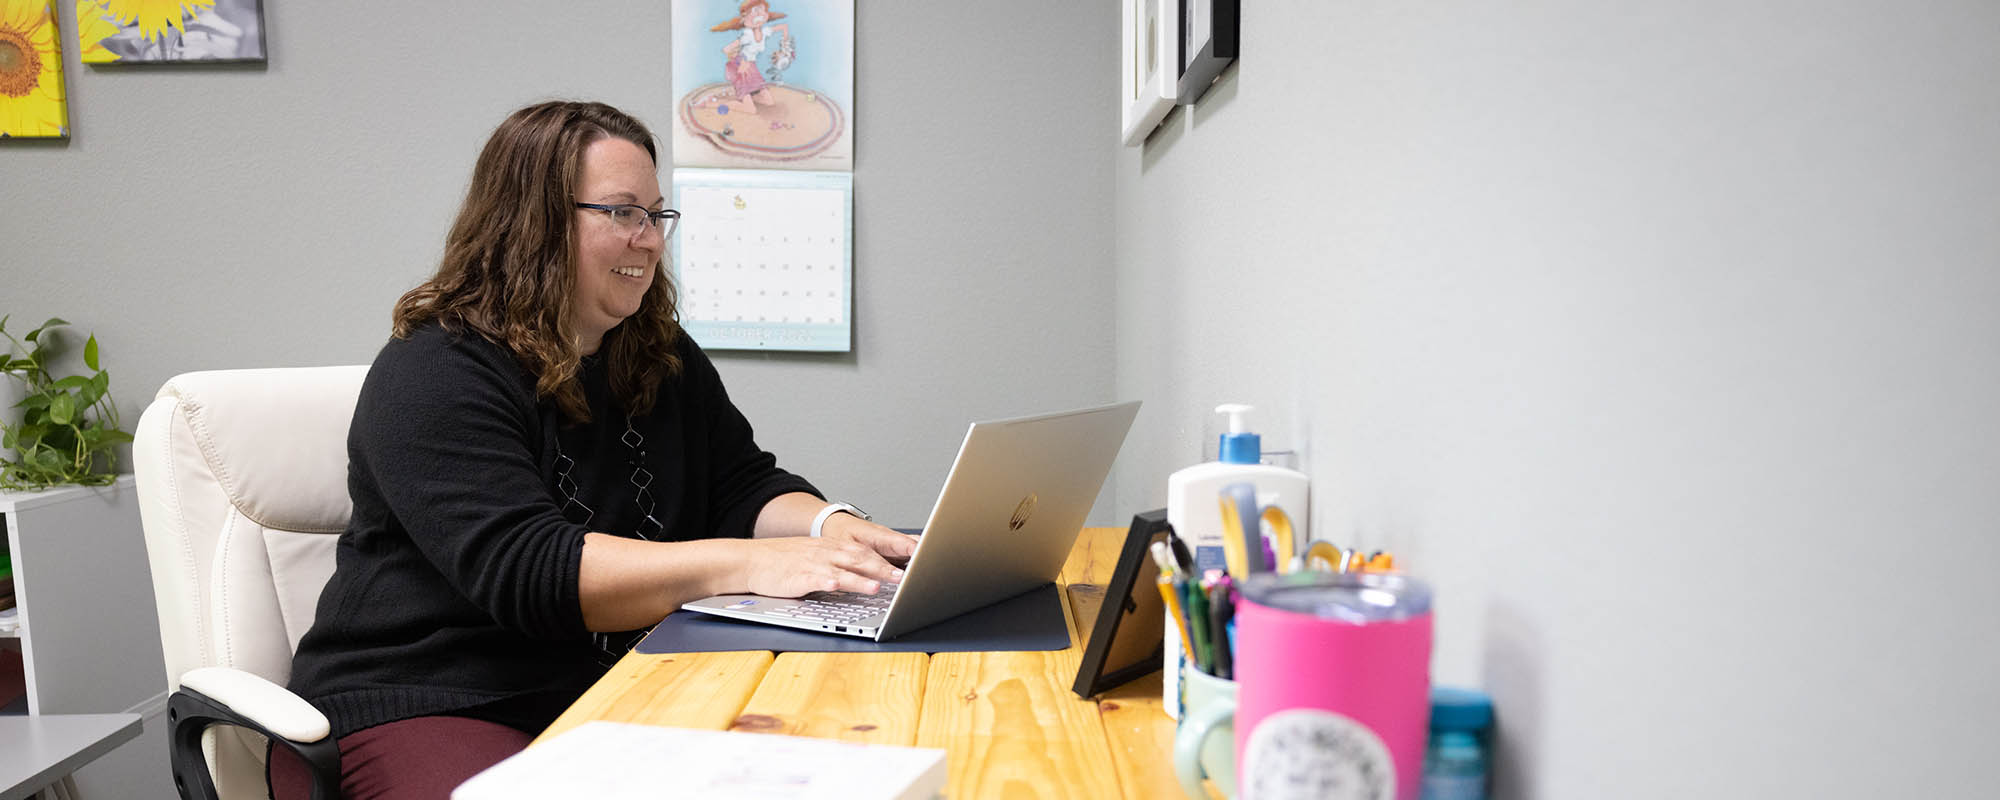
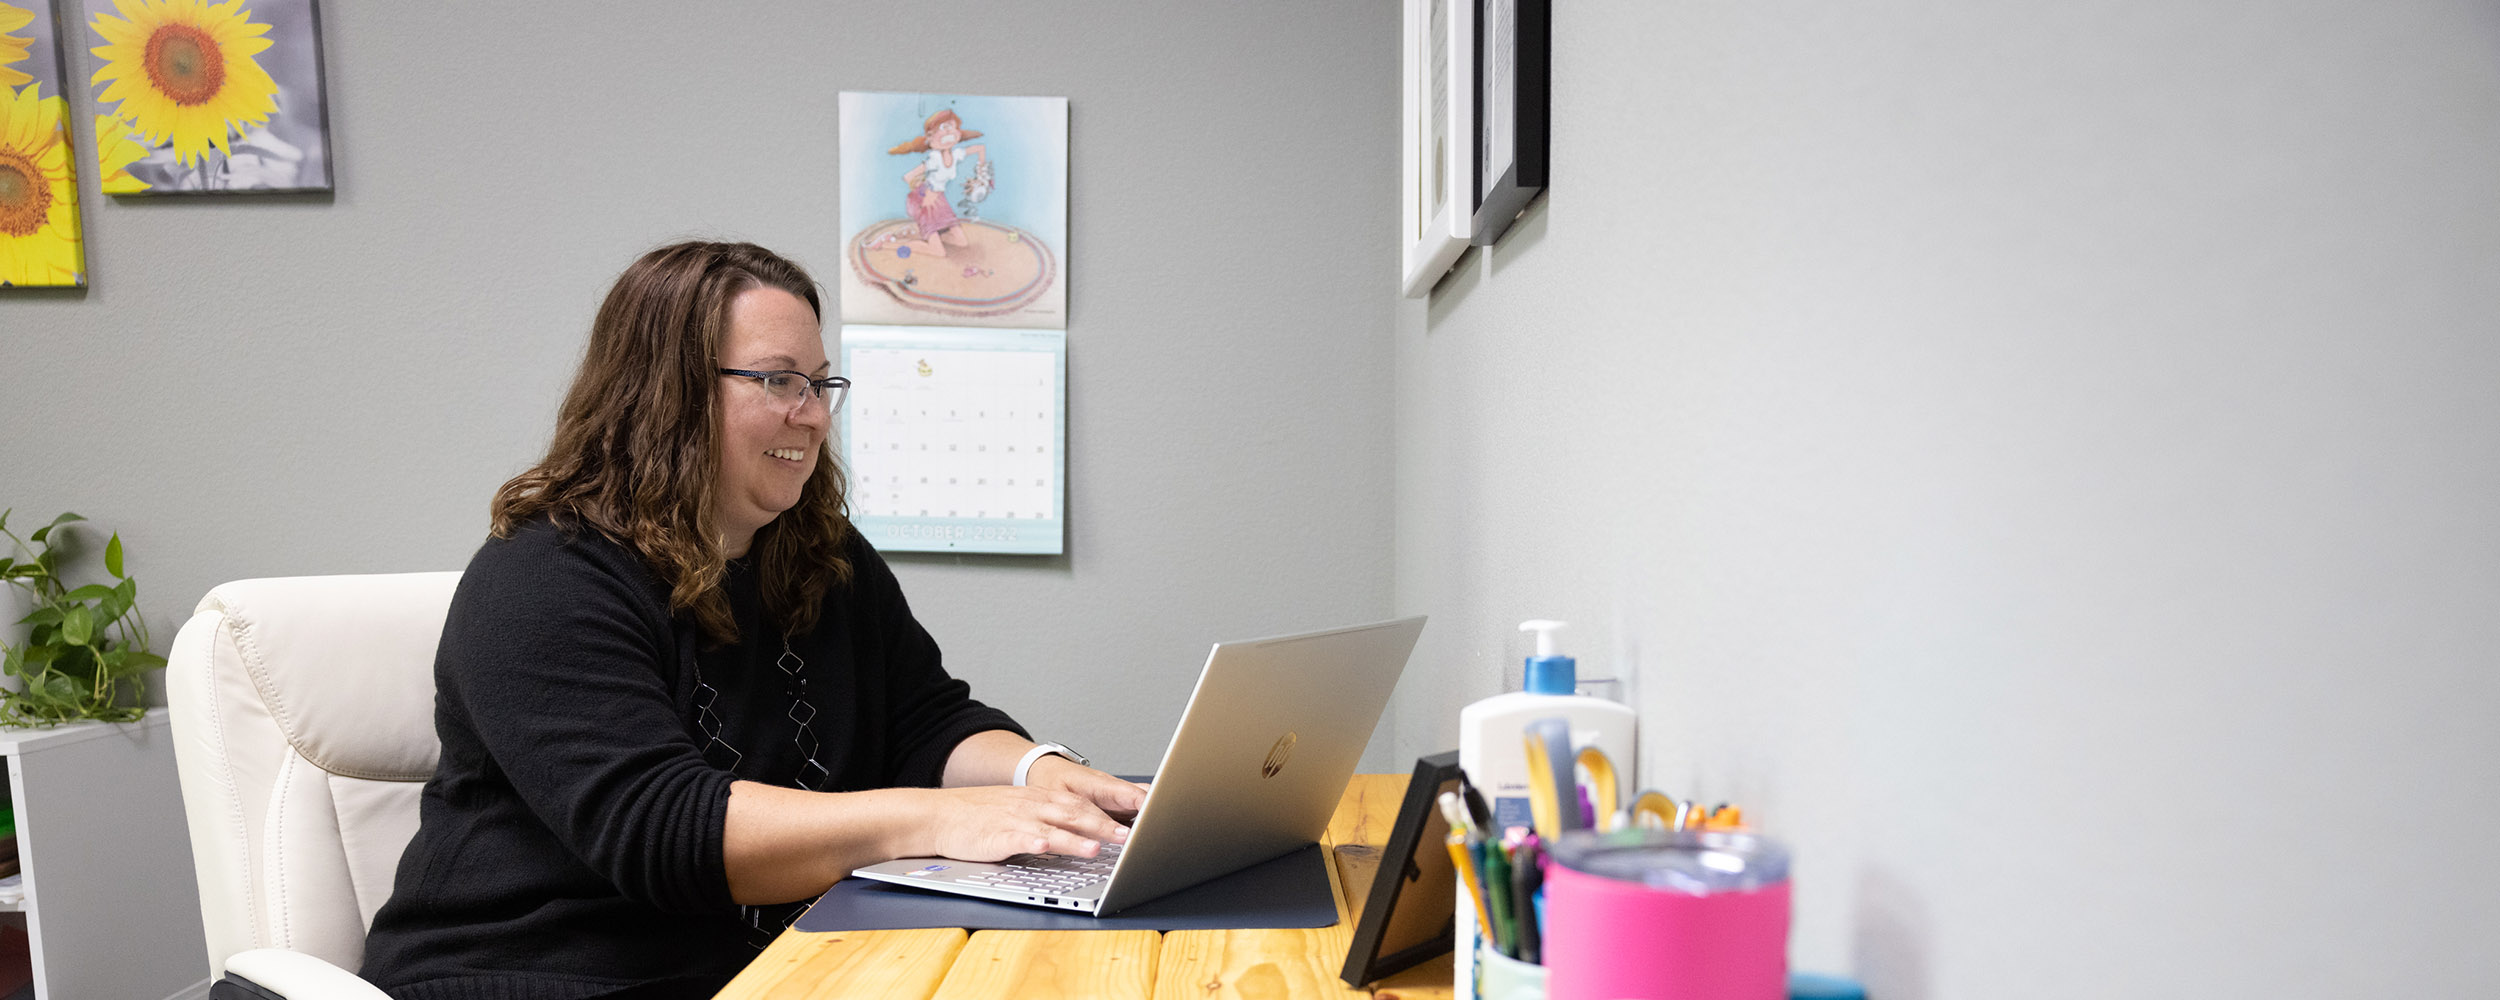
added new image options to test

diff --git a/layouts/partials/hero-image.html b/layouts/partials/hero-image.html
@@ -1,10 +1,10 @@
 <div class="hero__image">
   <picture>
-    <source sizes="100vw" srcset="https://ik.imagekit.io/insightcreative/mind-team/{{ .Params.hero.image_url }}?tr=f-avif,q-75,w-360,h-600 600w, https://ik.imagekit.io/insightcreative/mind-team/{{ .Params.hero.image_url }}?tr=f-avif,q-75,w-800,h-400 800w, https://ik.imagekit.io/insightcreative/mind-team/{{ .Params.hero.image_url }}?tr=f-avif,q-75,w-1000,h-500 1000w, https://ik.imagekit.io/insightcreative/mind-team/{{ .Params.hero.image_url }}?tr=f-avif,q-75,w-1200,h-600 1200w, https://ik.imagekit.io/insightcreative/mind-team/{{ .Params.hero.image_url }}?tr=f-avif,q-75,w-1400,h-700 1400w, https://ik.imagekit.io/insightcreative/mind-team/{{ .Params.hero.image_url }}?tr=f-avif,q-75,w-1800,h-900 1800w, https://ik.imagekit.io/insightcreative/mind-team/{{ .Params.hero.image_url }}?tr=f-avif,q-75,w-2000,h-1000 2000w" type="image/avif">
+    <source sizes="100vw" srcset="https://ik.imagekit.io/insightcreative/mind-team/{{ .Params.hero.image_url }}?tr=f-avif,q-90,w-360,h-600 600w, https://ik.imagekit.io/insightcreative/mind-team/{{ .Params.hero.image_url }}?tr=f-avif,q-90,w-800,h-400 800w, https://ik.imagekit.io/insightcreative/mind-team/{{ .Params.hero.image_url }}?tr=f-avif,q-90,w-1000,h-500 1000w, https://ik.imagekit.io/insightcreative/mind-team/{{ .Params.hero.image_url }}?tr=f-avif,q-90,w-1200,h-600 1200w, https://ik.imagekit.io/insightcreative/mind-team/{{ .Params.hero.image_url }}?tr=f-avif,q-90,w-1400,h-700 1400w, https://ik.imagekit.io/insightcreative/mind-team/{{ .Params.hero.image_url }}?tr=f-avif,q-90,w-1800,h-900 1800w, https://ik.imagekit.io/insightcreative/mind-team/{{ .Params.hero.image_url }}?tr=f-avif,q-90,w-2000,h-1000 2000w" type="image/avif">
     
-    <source sizes="100vw" srcset="https://ik.imagekit.io/insightcreative/mind-team/{{ .Params.hero.image_url }}?tr=f-webp,q-75,w-360,h-600 600w, https://ik.imagekit.io/insightcreative/mind-team/{{ .Params.hero.image_url }}?tr=f-webp,q-75,w-800,h-400 800w, https://ik.imagekit.io/insightcreative/mind-team/{{ .Params.hero.image_url }}?tr=f-webp,q-75,w-1000,h-500 1000w, https://ik.imagekit.io/insightcreative/mind-team/{{ .Params.hero.image_url }}?tr=f-webp,q-75,w-1200,h-600 1200w, https://ik.imagekit.io/insightcreative/mind-team/{{ .Params.hero.image_url }}?tr=f-webp,q-75,w-1400,h-700 1400w, https://ik.imagekit.io/insightcreative/mind-team/{{ .Params.hero.image_url }}?tr=f-webp,q-75,w-1800,h-900 1800w, https://ik.imagekit.io/insightcreative/mind-team/{{ .Params.hero.image_url }}?tr=f-webp,q-75,w-2000,h-1000 2000w" type="image/webp">
+    <source sizes="100vw" srcset="https://ik.imagekit.io/insightcreative/mind-team/{{ .Params.hero.image_url }}?tr=f-webp,q-90,w-360,h-600 600w, https://ik.imagekit.io/insightcreative/mind-team/{{ .Params.hero.image_url }}?tr=f-webp,q-90,w-800,h-400 800w, https://ik.imagekit.io/insightcreative/mind-team/{{ .Params.hero.image_url }}?tr=f-webp,q-90,w-1000,h-500 1000w, https://ik.imagekit.io/insightcreative/mind-team/{{ .Params.hero.image_url }}?tr=f-webp,q-90,w-1200,h-600 1200w, https://ik.imagekit.io/insightcreative/mind-team/{{ .Params.hero.image_url }}?tr=f-webp,q-90,w-1400,h-700 1400w, https://ik.imagekit.io/insightcreative/mind-team/{{ .Params.hero.image_url }}?tr=f-webp,q-90,w-1800,h-900 1800w, https://ik.imagekit.io/insightcreative/mind-team/{{ .Params.hero.image_url }}?tr=f-webp,q-90,w-2000,h-1000 2000w" type="image/webp">
 
-    <source sizes="100vw" srcset="https://ik.imagekit.io/insightcreative/mind-team/{{ .Params.hero.image_url }}?tr=f-jpg,q-75,w-360,h-600 600w, https://ik.imagekit.io/insightcreative/mind-team/{{ .Params.hero.image_url }}?tr=f-jpg,q-75,w-800,h-400 800w, https://ik.imagekit.io/insightcreative/mind-team/{{ .Params.hero.image_url }}?tr=f-jpg,q-75,w-1000,h-500 1000w, https://ik.imagekit.io/insightcreative/mind-team/{{ .Params.hero.image_url }}?tr=f-jpg,q-75,w-1200,h-600 1200w, https://ik.imagekit.io/insightcreative/mind-team/{{ .Params.hero.image_url }}?tr=f-jpg,q-75,w-1400,h-700 1400w, https://ik.imagekit.io/insightcreative/mind-team/{{ .Params.hero.image_url }}?tr=f-jpg,q-75,w-1800,h-900 1800w, https://ik.imagekit.io/insightcreative/mind-team/{{ .Params.hero.image_url }}?tr=f-jpg,q-75,w-2000,h-1000 2000w" type="image/jpg">
+    <source sizes="100vw" srcset="https://ik.imagekit.io/insightcreative/mind-team/{{ .Params.hero.image_url }}?tr=f-jpg,q-90,w-360,h-600 600w, https://ik.imagekit.io/insightcreative/mind-team/{{ .Params.hero.image_url }}?tr=f-jpg,q-90,w-800,h-400 800w, https://ik.imagekit.io/insightcreative/mind-team/{{ .Params.hero.image_url }}?tr=f-jpg,q-90,w-1000,h-500 1000w, https://ik.imagekit.io/insightcreative/mind-team/{{ .Params.hero.image_url }}?tr=f-jpg,q-90,w-1200,h-600 1200w, https://ik.imagekit.io/insightcreative/mind-team/{{ .Params.hero.image_url }}?tr=f-jpg,q-90,w-1400,h-700 1400w, https://ik.imagekit.io/insightcreative/mind-team/{{ .Params.hero.image_url }}?tr=f-jpg,q-90,w-1800,h-900 1800w, https://ik.imagekit.io/insightcreative/mind-team/{{ .Params.hero.image_url }}?tr=f-jpg,q-90,w-2000,h-1000 2000w" type="image/jpg">
 
     <img src="/uploads/{{ .Params.hero.image_url }}" alt="{{ .Params.hero.image_url_alt }}" width="1500" height="600">
   </picture>

diff --git a/content/test/child/comprehensive.md b/content/test/child/comprehensive.md
@@ -12,7 +12,7 @@ seo:
 hero:
   heading: Get a <span class="underline underline--accent">full understanding</span> of your child’s mind.
   body: If your child is struggling in multiple subject areas or you think they could have more than one condition such as autism, ADHD or dyslexia, Mind Team comprehensive tests for children make it easy to get the answers you need.
-  image_url: young-boy-during-one-on-one-remote-counseling-session-5.jpg
+  image_url: young-boy-during-one-on-one-remote-counseling-session-7.jpg
   image_alt:
   button:
     enabled: false

diff --git a/content/test/child/child-adhd-test.md b/content/test/child/child-adhd-test.md
@@ -11,7 +11,8 @@ seo:
 hero:
   heading: Does your <span class="underline underline--accent">child</span> have ADHD?
   body: Get the professional answers and support you need to work <em>with</em> your child’s mind, all from the comfort of home.
-  image_url: young-girl-during-autism-spectrum-disorder-testing-3.jpg
+  # image_url: young-girl-during-autism-spectrum-disorder-testing-3.jpg
+  image_url: young-girl-during-a-child-adhd-testing-session-8.jpg
   image_alt:
   button:
     enabled: false

diff --git a/content/test/adult/comprehensive-adult-testing.md b/content/test/adult/comprehensive-adult-testing.md
@@ -11,7 +11,7 @@ seo:
 hero:
   heading: All the <span class="underline underline--accent">answers you need</span>; one simple test.
   body: Get a comprehensive understanding of your unique mind with Mind Team comprehensive testing for adults who think they may have autism, ADHD, dyslexia and other neurodivergent conditions.
-  image_url: mind-team-counselor-during-treatment-session-2.jpg
+  image_url: mind-team-counselor-during-treatment-session-13.jpg
   image_alt:
   button:
     enabled: false

diff --git a/content/test/adult/_index.md b/content/test/adult/_index.md
@@ -11,7 +11,7 @@ seo:
 hero:
   heading: Get the answers you <span class="underline underline--accent">need</span>.
   body: Professional adult testing for autism, ADHD, dyslexia and other neurodivergent conditions—100% remote and conducted by licensed clinicians.
-  image_url: mind-team-counselor-during-treatment-session-7.jpg
+  image_url: mind-team-counselor-during-treatment-session-15.jpg
   image_alt:
   button:
     enabled: false

diff --git a/content/test/child/remote-specialty-testing-children.md b/content/test/child/remote-specialty-testing-children.md
@@ -11,7 +11,7 @@ seo:
 hero:
   heading: Remote <span class="underline underline--accent">specialty</span> testing for children
   body: Inquire for pricing.
-  image_url: young-girl-during-a-child-adhd-testing-session-7.jpg
+  image_url: young-girl-during-autism-spectrum-disorder-testing-10.jpg
   image_alt:
   button:
     enabled: false

diff --git a/content/test/child/targeted-subject-testing-children.md b/content/test/child/targeted-subject-testing-children.md
@@ -11,7 +11,7 @@ seo:
 hero:
   heading: Targeted subject tests for <span class="underline underline--accent">children</span>
   body: $1,000
-  image_url: young-girl-during-a-child-adhd-testing-session-6.jpg
+  image_url: young-girl-during-a-child-adhd-testing-session-8.jpg
   image_alt:
   button:
     enabled: false
